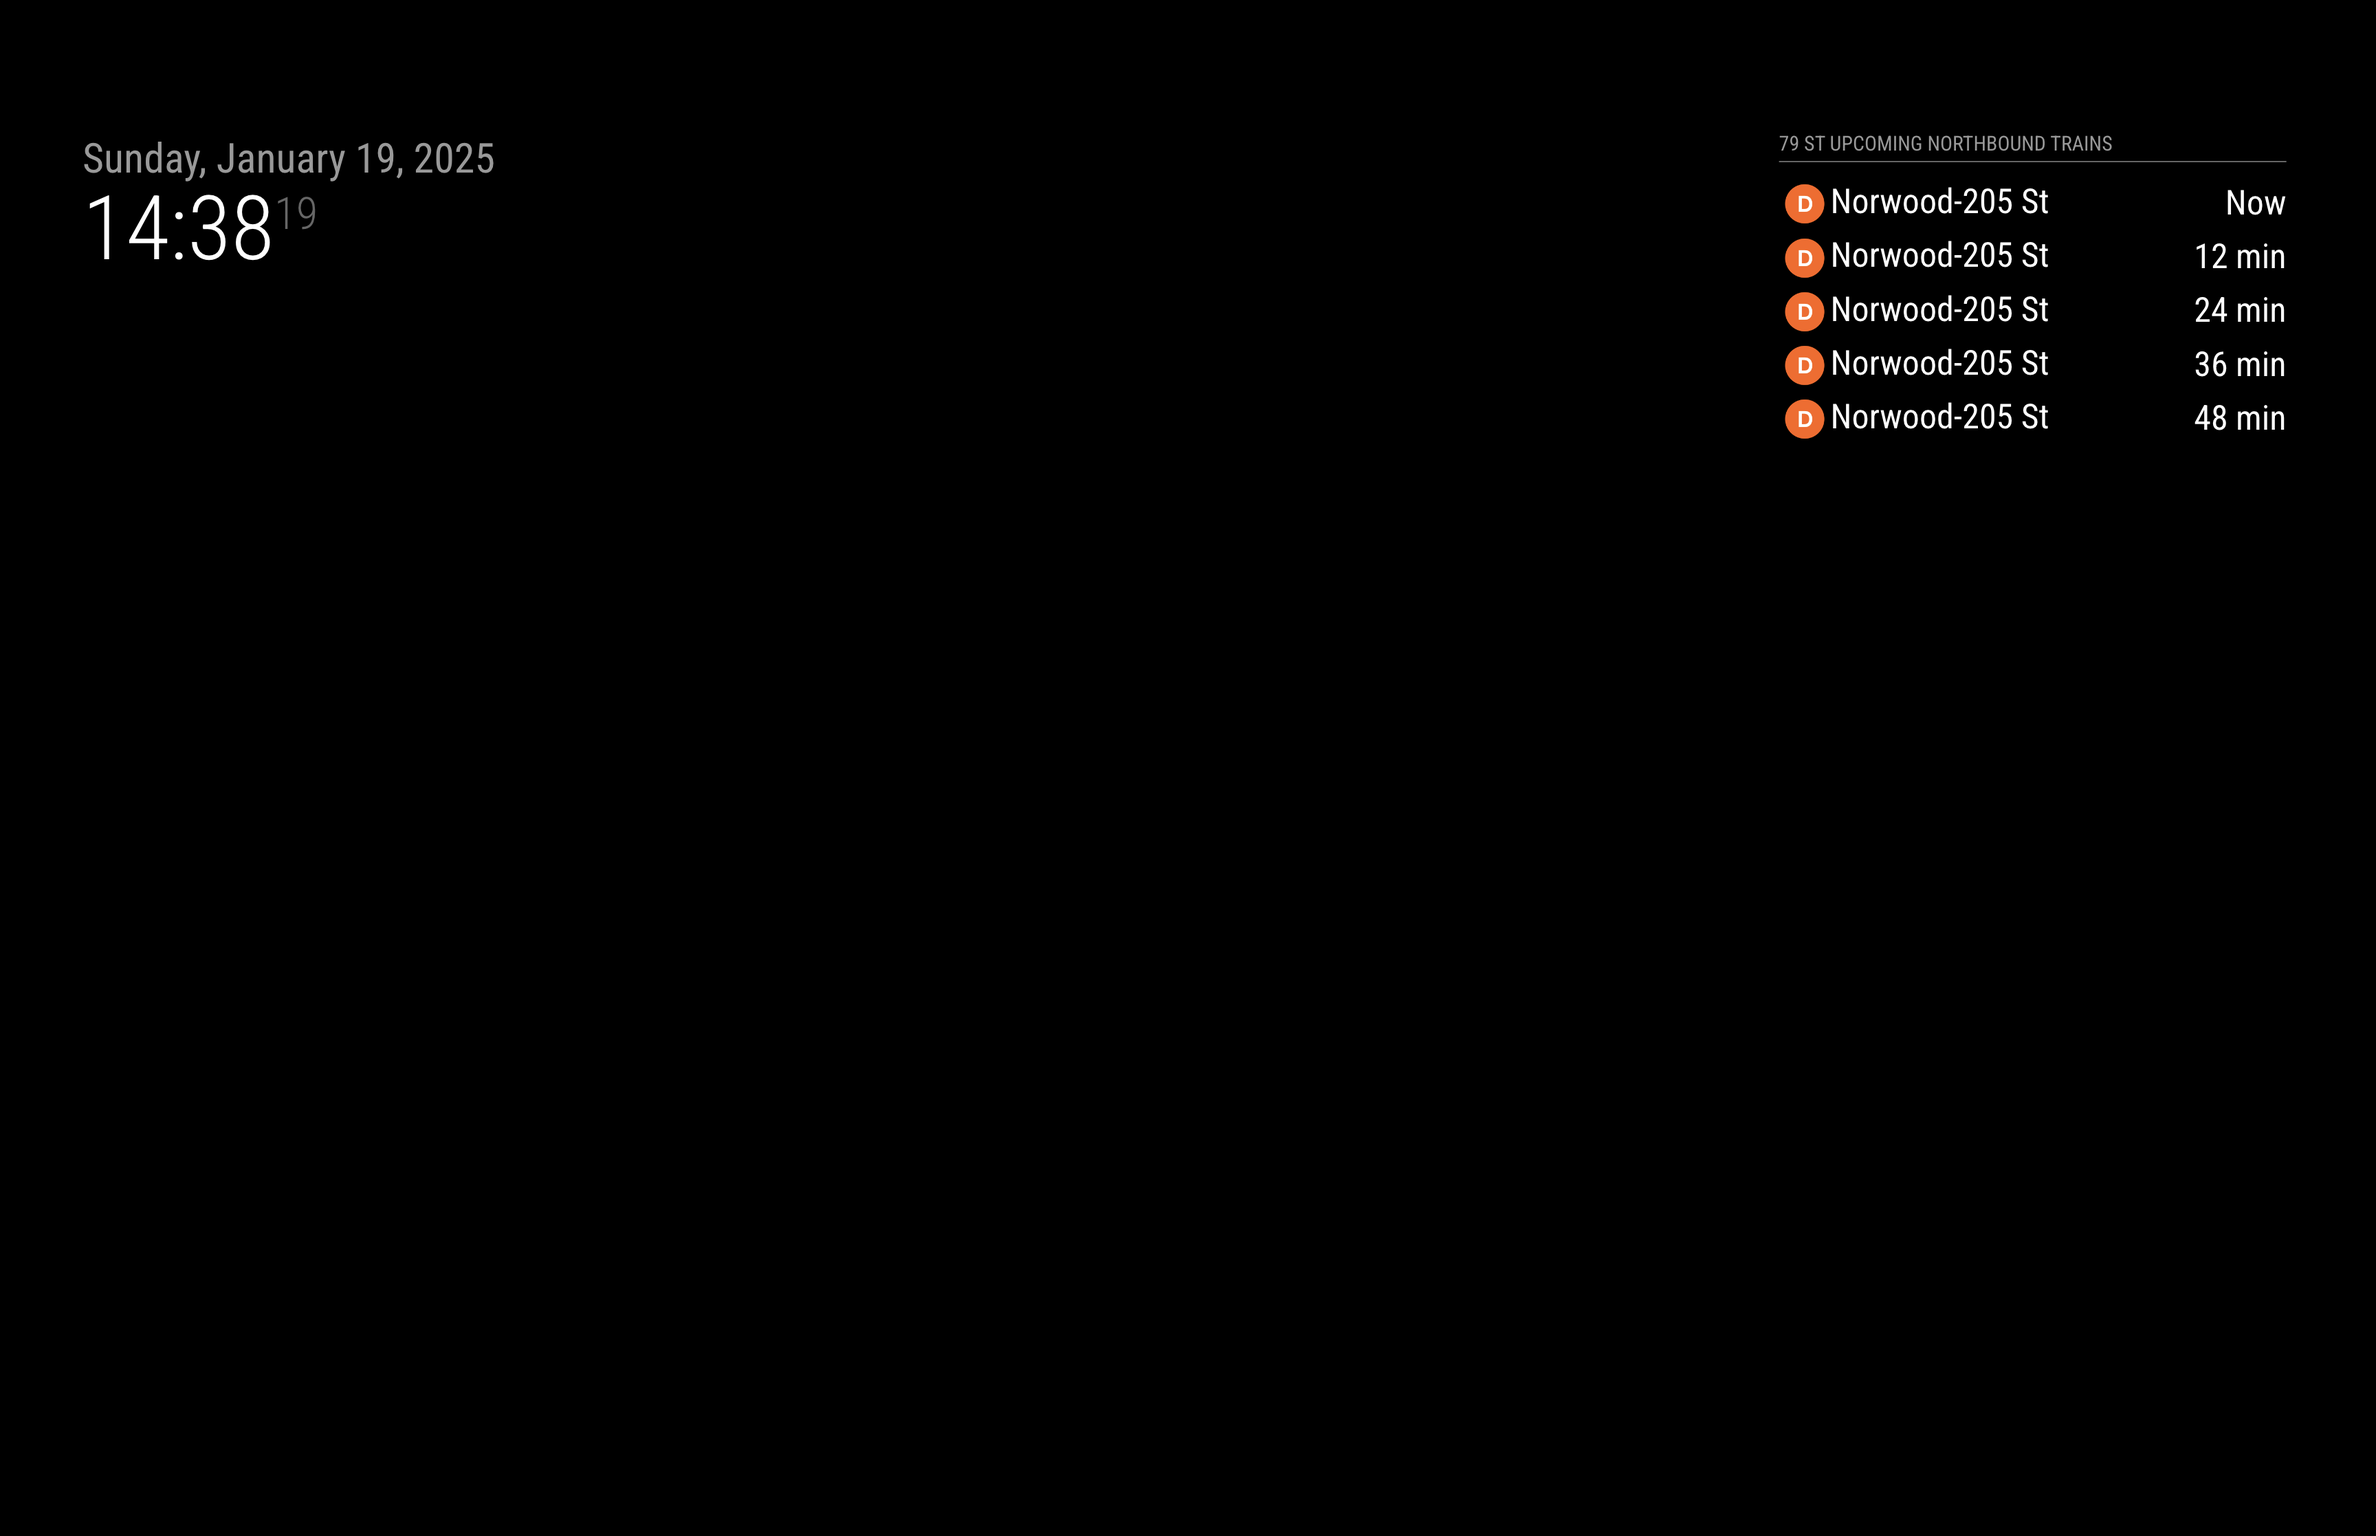
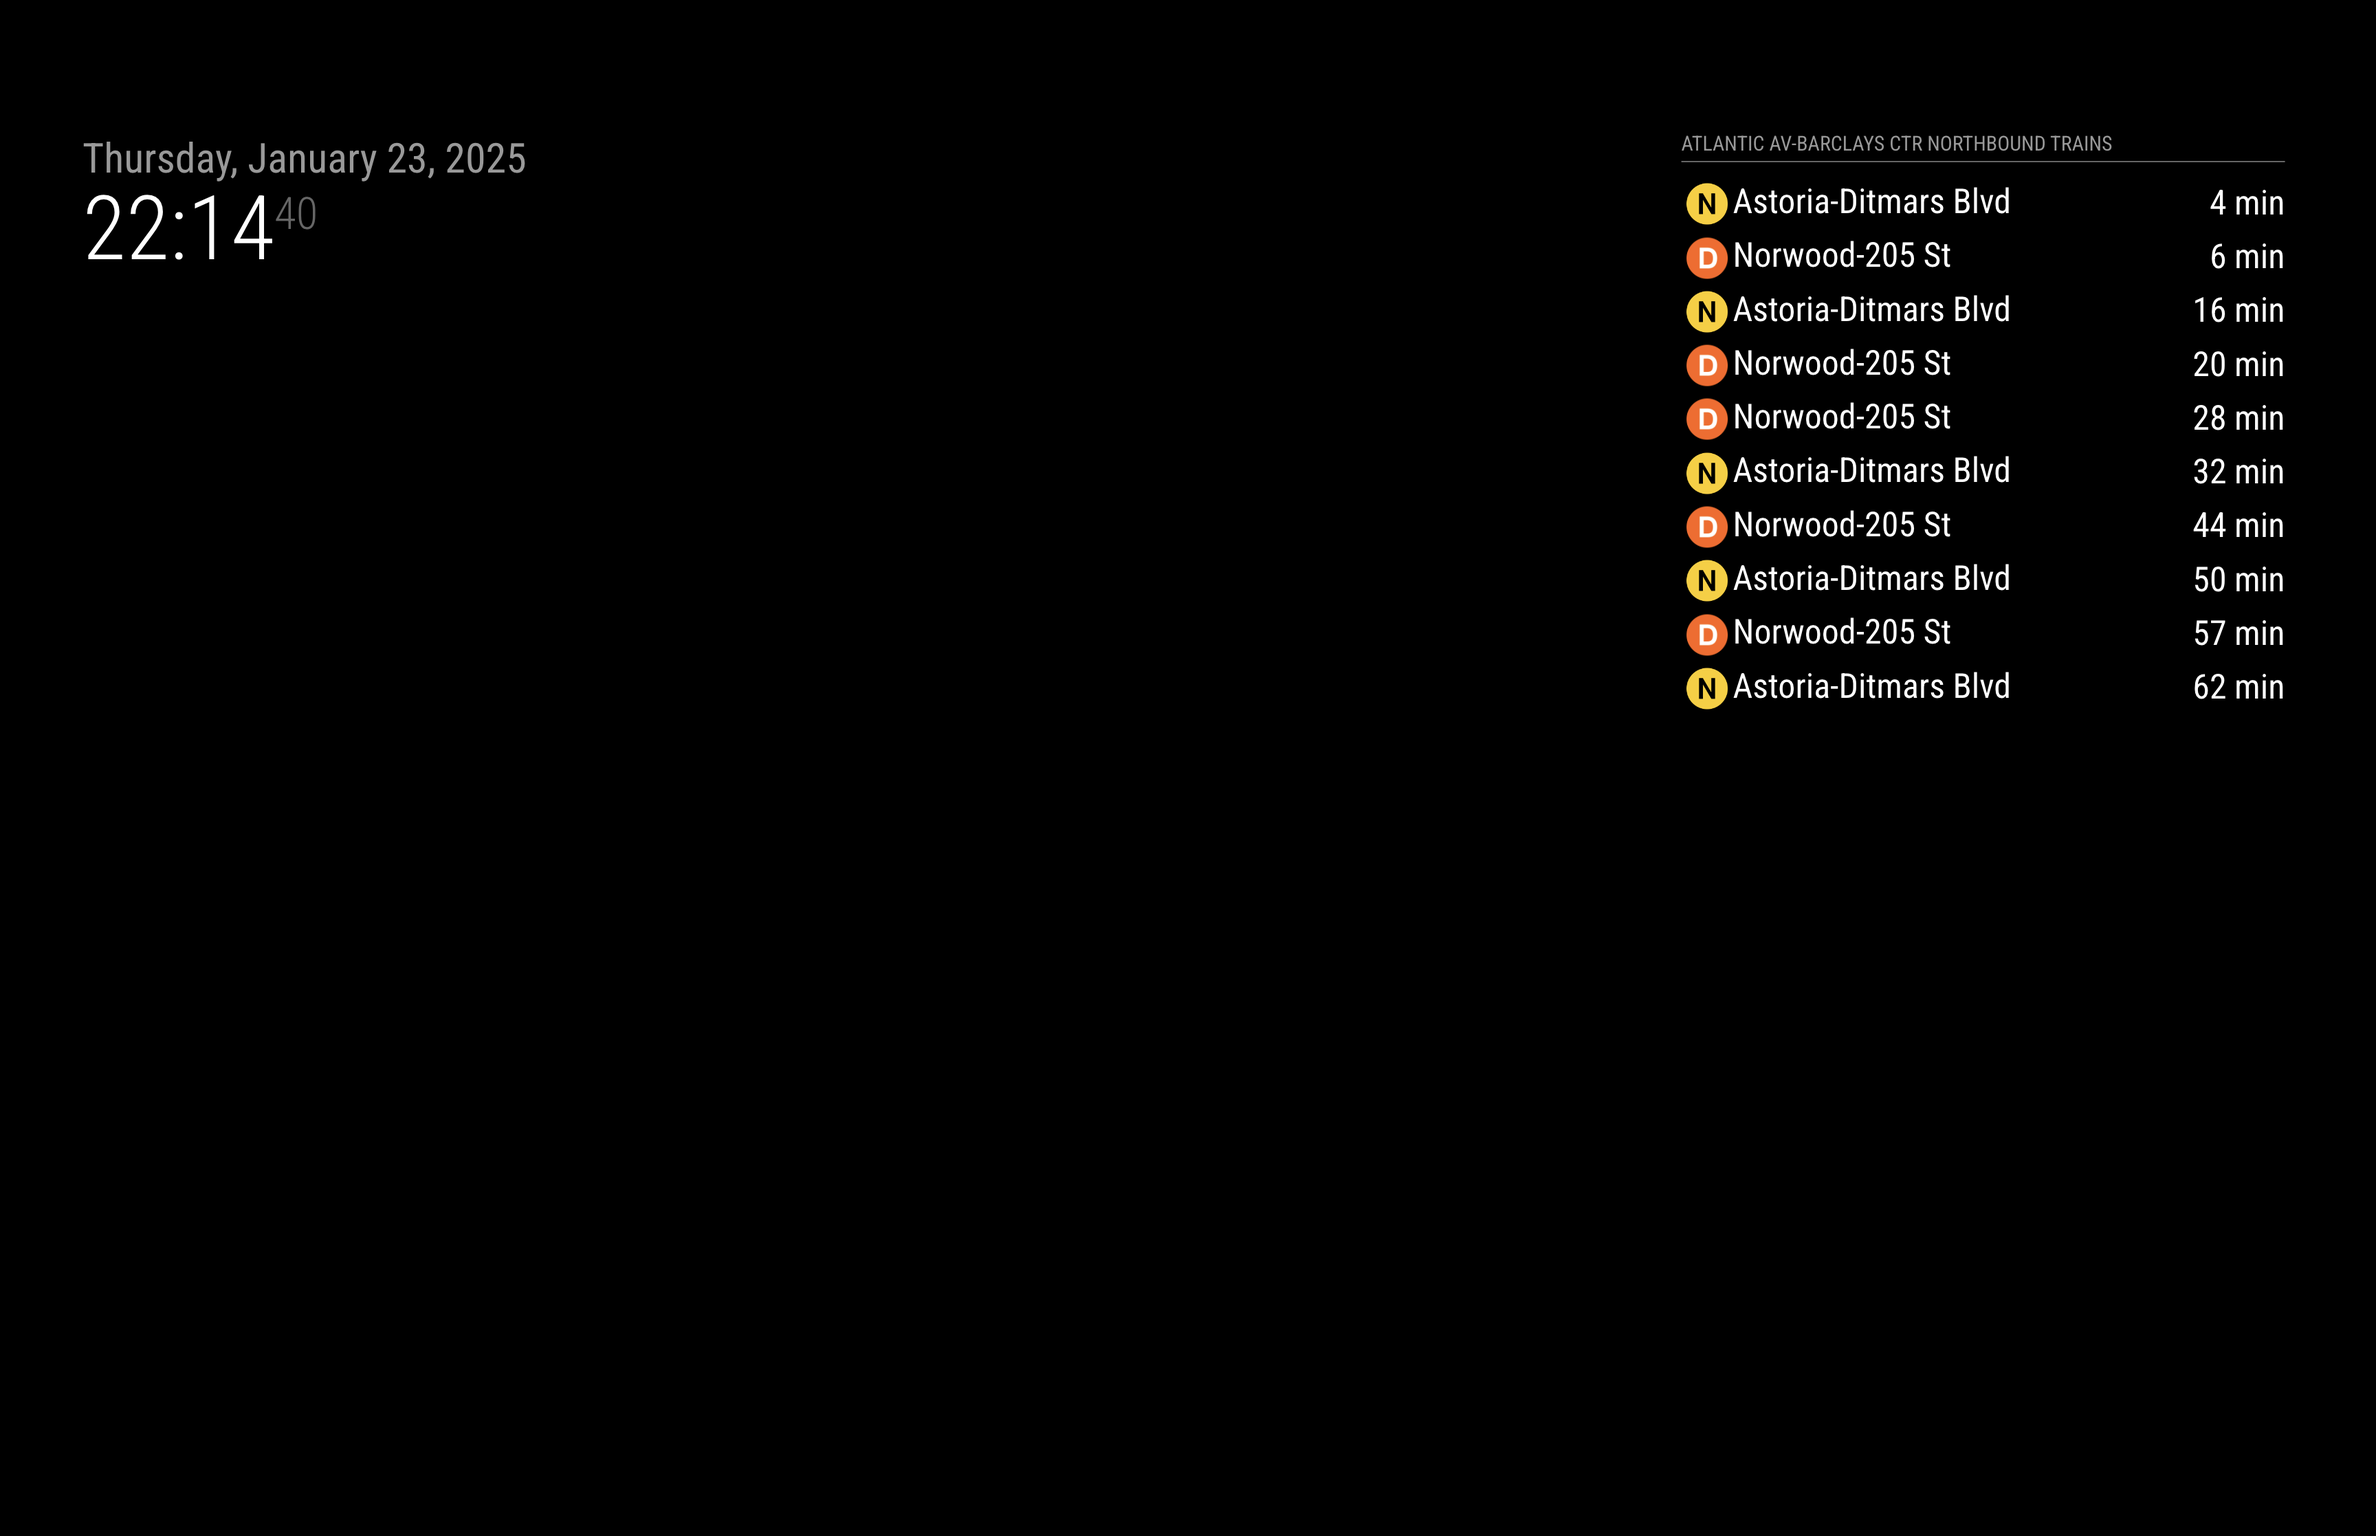
update README

diff --git a/MMM-MTATrainTimes.js b/MMM-MTATrainTimes.js
@@ -26,13 +26,12 @@ Module.register("MMM-MTATrainTimes", {
         if (directionMessage.length === 0) {
             return "Update Module Config for Train Direction"
         }
-        return this.stopName + " Upcoming " + directionMessage + " Trains"
+        return this.stopName + " " + directionMessage + " Trains"
     },
     getStyles: function() {
         return ["MMM-MTATrainTimes.css"];
     },
 
-    // Define start sequence
     start: function () {
         Log.info("Starting module: " + this.name);
 
@@ -50,7 +49,6 @@ Module.register("MMM-MTATrainTimes", {
         }, this.config.updateInterval)
     },
     
-    // Override dom generator
     getDom: function () {
         const wrapper = document.createElement("div");
         wrapper.className = this.config.classes ? this.config.classes : "urban bright";

diff --git a/node_helper.js b/node_helper.js
@@ -559,7 +559,6 @@ module.exports = NodeHelper.create({
             const fetch = (await import('node-fetch')).default;
 
             const apiBases = this.getApis(routeIds);
-            console.log(apiBases)
             const responses = await this.callApis(apiBases);
             const futureArrivals = await this.parsefutureArrivals(stopId, northBound, southBound, routeIds, responses);
             return futureArrivals;

diff --git a/README.md b/README.md
@@ -1,6 +1,6 @@
 # MMM-MTATrainTimes
 
-Displays upcoming train times for a specific MTA station. DISCLAIMER: this module is currently only compatible with the D-line. TODO: make it extensible to all train lines.
+Displays upcoming train times for a given MTA station.
 
 ![example](./documentation/example.png)
 
@@ -26,17 +26,24 @@ modules: [
         module: "MMM-MTATrainTimes",
         position: "top_right",
         config: {
-            stopId: "B18",
+            stopId: "R31",
+            routeIds: ["D", "N"],
             northBound: true,
-            southBound: false
+            southBound: false,
+            numTrains: 10,
             }
     }
 ]
 ```
 
 ### Configuration Options
-| config | description | 
-| --- | --- |
-| `stopId` | The stopId the module will display train times for. See `stopNameMap` in `node_helper.js` for the list of available stops. |
-| `northBound` | The module will display north bound trains if set to true. |
-| `southBound` | The module will display south bound trains if set to true. |
+
+| config | type | description | 
+| --- | --- | --- | 
+| `stopId` | String | The stop id of the station the module will display train times for. See the `parentStops` map in `node_helper.js` for the list of available stops. Some stations with more than one platform can have multiple id values. |
+| `routeIds` | Array[String] | Filters trains by train line. All trains lines arriving at the station will be shown if this parameter is null or an empty list. |
+| `northBound` | Boolean | The module north bound trains if set to true. |
+| `southBound` | Boolean | The module will display south bound trains if set to true. |
+| `numTrains` | Number | The maximum number of trains to be displayed at once. |
+
+<em>In the example configuration, the module will display the next 10 northbound D and N trains arriving at Atlantic Av-Barclays Ctr.</em>
